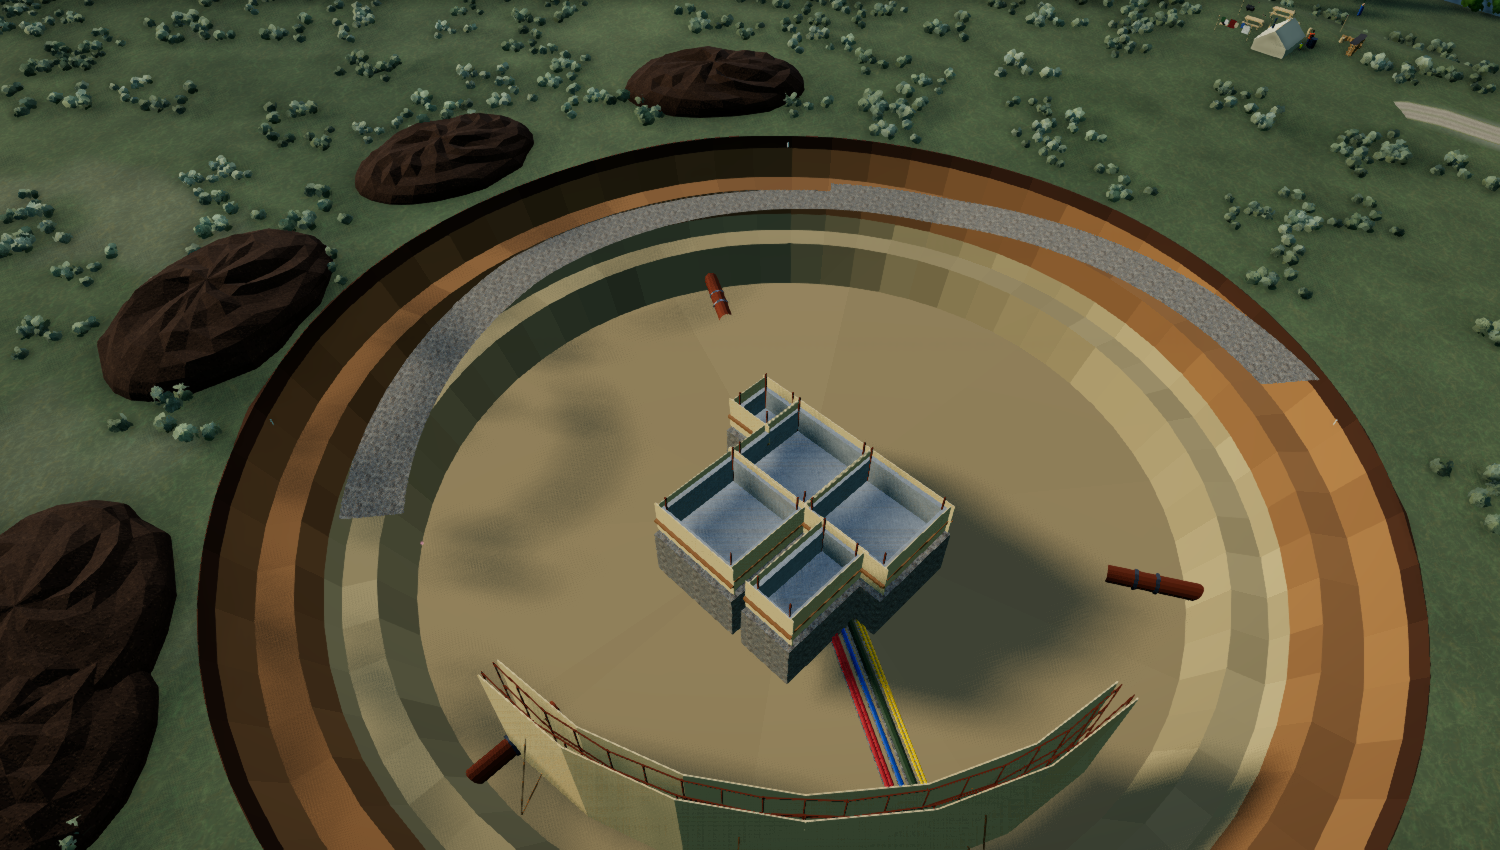
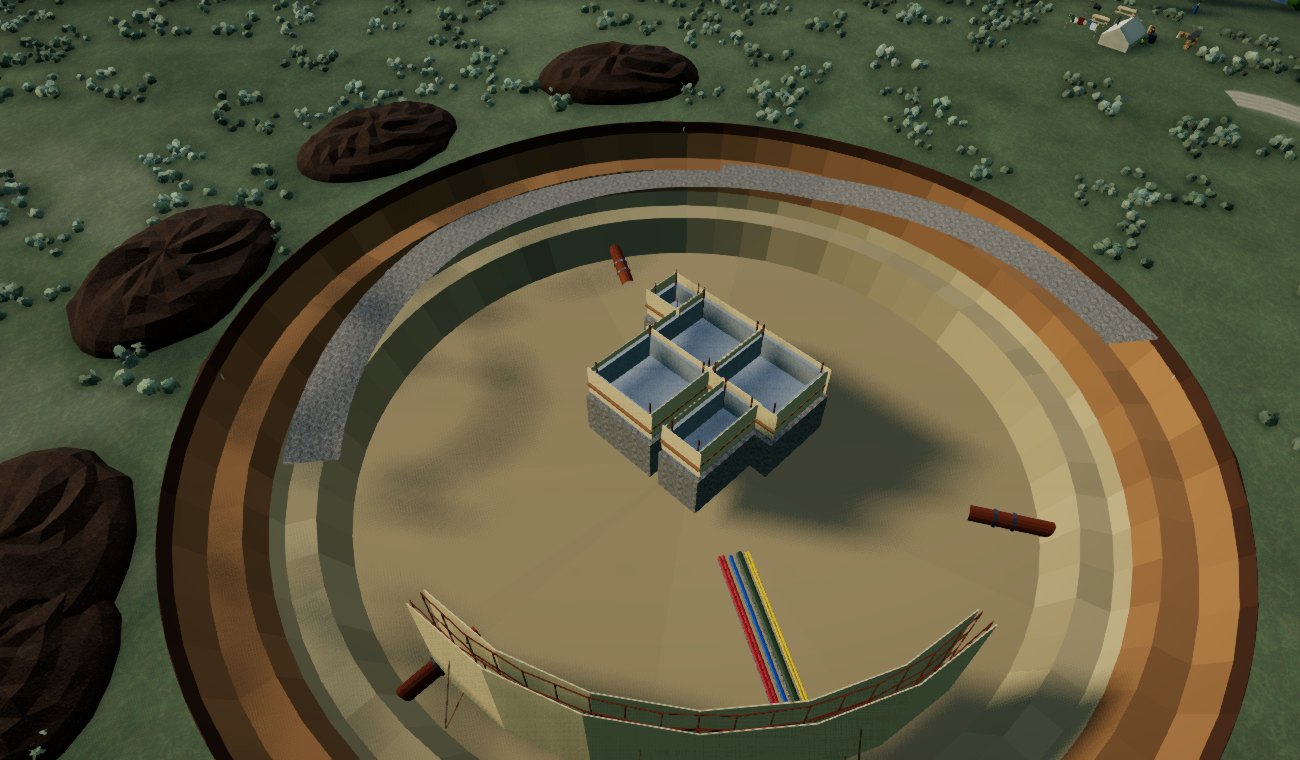
Dome bunker: screenshots, cards script, section label

diff --git a/src/game/buildkit/domeDig.ts b/src/game/buildkit/domeDig.ts
@@ -619,7 +619,7 @@ export function buildSection(o: SectionOpts): THREE.Group {
   sprite(`Skirt: ${TIER[tier].skirtFt} ft deep, ${TIER[tier].skirtThickFt} ft thick`, -half * 0.5, rulerTop - k.depthU - 0.25 * sc, 0.03, 3.4, 'rgba(110,112,118,0.85)');
   sprite(`A plain crew digs ${DIG_DEPTH_FT[0]} to ${DIG_DEPTH_FT[1]} ft`, half * 0.62, rulerTop - DIG_DEPTH_FT[1] / FT_PER_UNIT - 0.14, 0.03, 2.4, 'rgba(120,90,10,0.85)');
   sprite(`A crew that has learned the ground: ${DIG_DEPTH_FT[0] + DIG_DEEPER} to ${DIG_DEPTH_FT[1] + DIG_DEEPER} ft`, half * 0.62, rulerTop - (DIG_DEPTH_FT[1] + DIG_DEEPER) / FT_PER_UNIT - 0.14, 0.03, 3.6, 'rgba(150,40,30,0.85)');
-  for (const r of o.bunker ?? []) sprite(`Bunker: floor ${Math.round(-r.floorY * FT_PER_UNIT + 1)} ft down, inside the skirt`, (r.x0 + r.x1) / 2, r.floorY - 0.2 * sc, 0.03, 3.0, 'rgba(30,60,80,0.88)');
+  for (const r of o.bunker ?? []) sprite(`Bunker: floor ${Math.round(-r.floorY * FT_PER_UNIT + 1)} ft down, inside the skirt`, r.x1 + 1.7 * sc, (r.floorY + r.roofY) / 2, 0.03, 3.0, 'rgba(30,60,80,0.88)');
   let ys = 0; for (const st of STRATA.slice(0, 4)) { const mid = (st.fromFt + Math.min(st.toFt, D * FT_PER_UNIT)) / 2; if (st.fromFt < D * FT_PER_UNIT) sprite(st.name, -half + 1.0, rulerTop - mid / FT_PER_UNIT, 0.02, 1.4); ys++; }
   void ys;
   return g;
